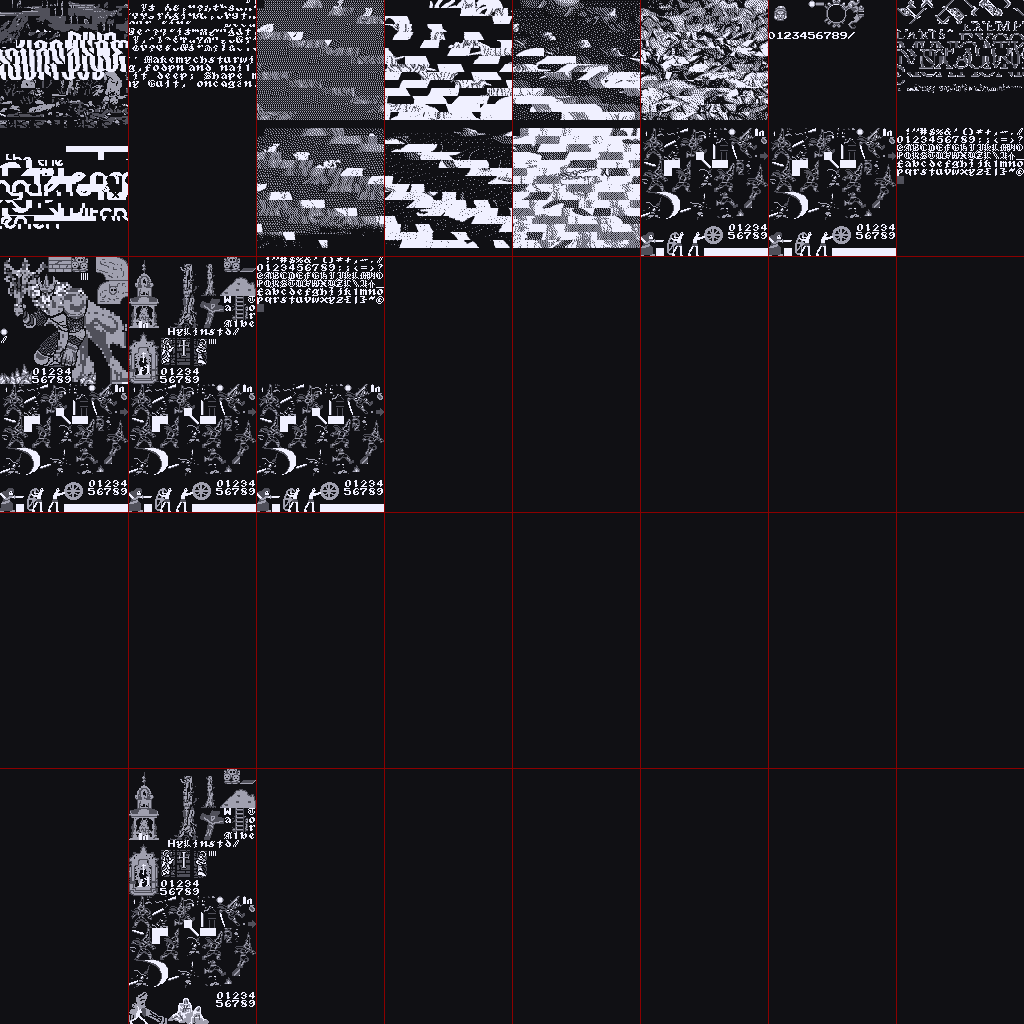
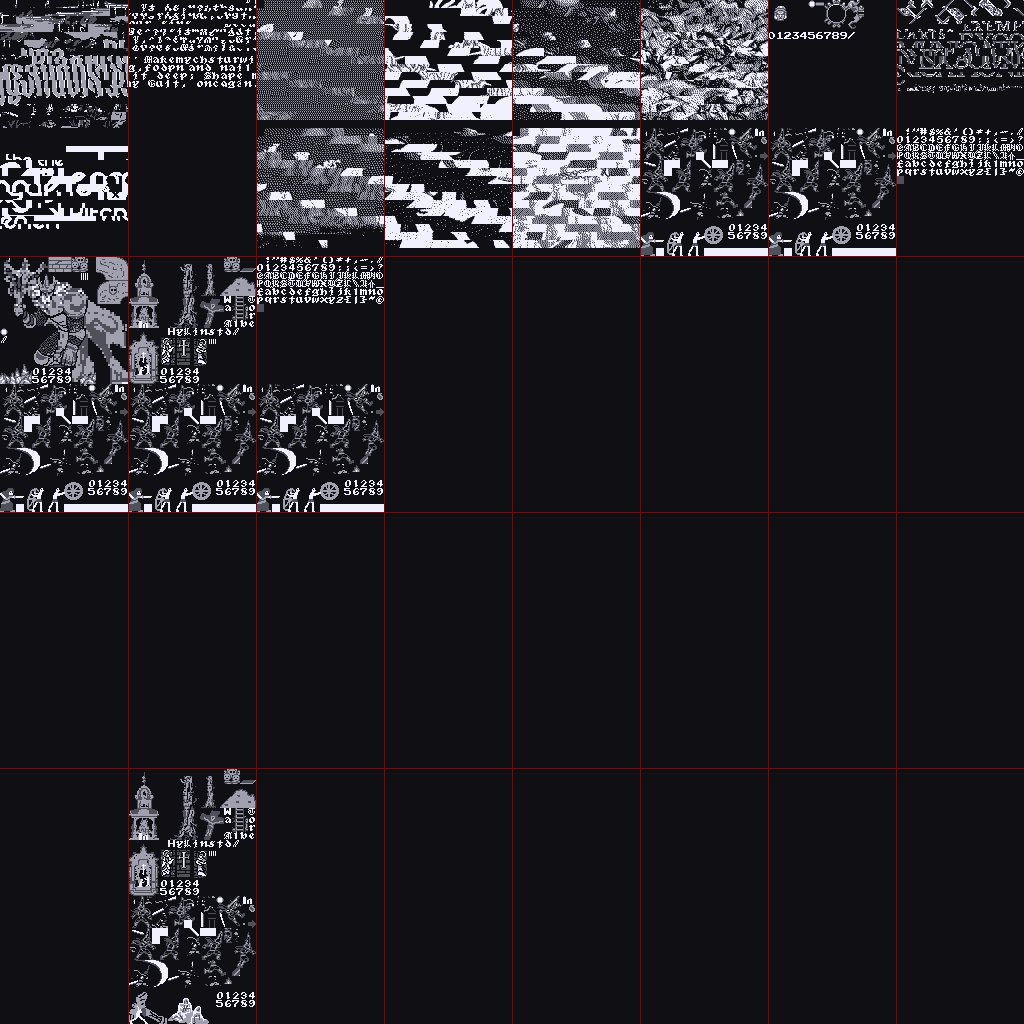
Update title screen

Changed region(s): [[0.0, 0.0, 0.125, 0.125]]

diff --git a/examples/Blasphemos/scripts/gen_title_data.py b/examples/Blasphemos/scripts/gen_title_data.py
@@ -69,10 +69,24 @@ def main():
 
     fab_lines = [
         "// AUTO-GENERATED by scripts/gen_title_data.py -- DO NOT EDIT MANUALLY",
-        "// Title screen palette constants from assets/TitleScreen.nss",
+        "// Title screen assets from assets/TitleScreen.nss + assets/title_bg.chr",
+        "",
+        "// Title CHR bank index (MMC3 bank 0, separate from level CHR at bank 2)",
+        "ct U TITLE_CHR_BANK = 0",
         "",
         "// Universal Background Color",
         f"ct U TITLE_UBC = ${ubc:02X}",
+        "",
+        "// Load the raw title screen CHR tiles into MMC3 bank 0 (BG slot, $0000-$0FFF)",
+        "// And load the Game Kitchen logo into the sprite slot ($1000-$1FFF)",
+        "chrrom (0 * $2000)",
+        "    file(raw, \"../assets/title_bg.chr\")",
+        "    file(fmt, \"../assets/game_kitchen_logo.png\")",
+        "",
+        "// Load Dead Screen background and font into MMC3 Bank 7 (Index 7 = $E000)",
+        "chrrom ($E000)",
+        "    file(raw, \"../assets/dead_screen_bg.chr\")",
+        "    file(fmt, \"../assets/font.png\")",
         "",
         "// BG sub-palette colors (3 colors per palette x 4 palettes = 12 values)",
         f"ct U[12] title_bg_palette = U[12](",
@@ -86,10 +100,10 @@ def main():
         f"    {hex_list(bg_colors[9:12])}",
         ")",
         "",
-        "// Nametable + attributes loaded from binary .nam file",
+        "// Nametable + attributes loaded from binary .nam file (960 + 64 = 1024 bytes)",
         "data /title",
         "    [] title_nam",
-        "        file(raw, \"assets/TitleScreen.nam\")",
+        "        file(raw, \"../assets/TitleScreen.nam\")",
         "",
     ]
 

diff --git a/examples/Blasphemos/CHANGELOG.md b/examples/Blasphemos/CHANGELOG.md
@@ -1,5 +1,21 @@
 # Changes
 
+## [26.05.2026] - v878
+- Cleanup
+
+
+## [26.05.2026] - v878
+- Cleanup
+
+
+## [26.05.2026] - v878
+- Cleanup
+
+
+## [26.05.2026] - v878
+- Cleanup
+
+
 ## [22.05.2026] - v877
 - Fix build
 
